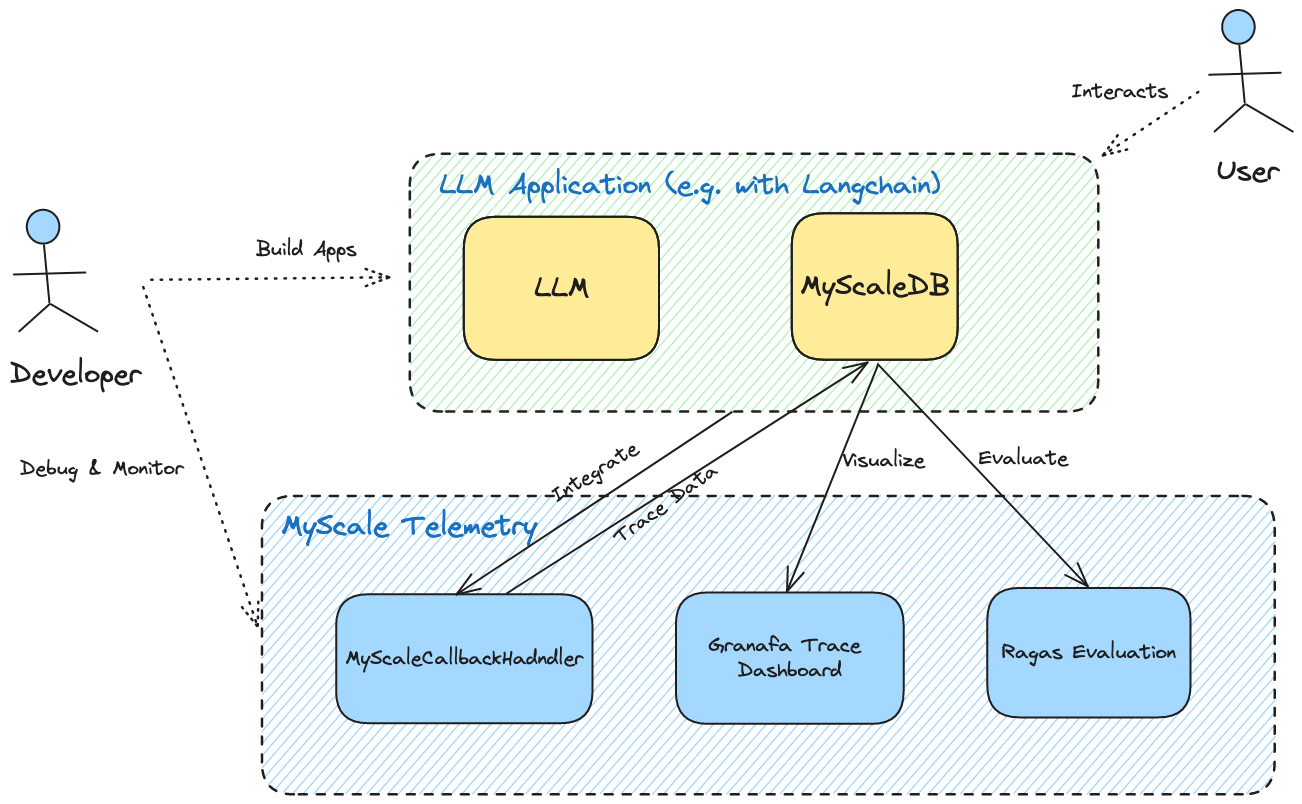
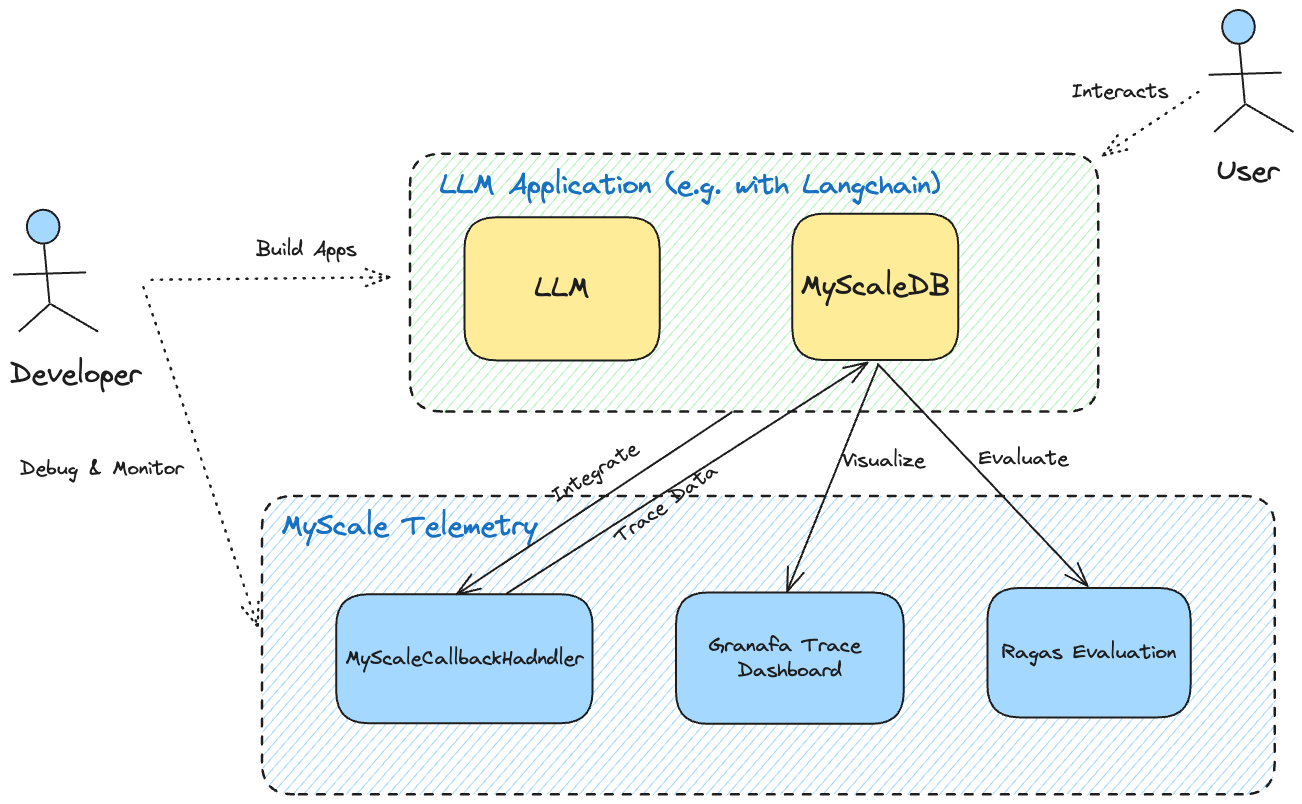
add workflow description

Changed region(s): [[0.1843, 0.5908, 0.9831, 0.995], [0.3072, 0.1866, 0.8602, 0.5286]]

diff --git a/myscale_telemetry/handler.py b/myscale_telemetry/handler.py
@@ -116,7 +116,7 @@ def _extract_span_attributes(data: Any, **kwargs: Any) -> Dict[str, str]:
     return span_attributes
 
 
-def num_tokens_from_string(string: str, encoding_name: str = "cl100k_base") -> int:
+def num_tokens_from_string(string: str, encoding_name: str) -> int:
     """Returns the number of tokens in a text string."""
     encoding = tiktoken.get_encoding(encoding_name)
     num_tokens = len(encoding.encode(string))
@@ -142,6 +142,8 @@ class MyScaleCallbackHandler(BaseCallbackHandler):
         force_count_tokens (bool): Forces the calculation of LLM token usage,
                                    useful when OpenAI LLM streaming is enabled
                                    and token usage is not returned.
+        encoding_name (str): The name of the encoding used by tiktoken.
+                             This is only relevant if `force_count_tokens` is set to True.
 
     This handler utilizes callback methods to extract various elements such as
     questions, retrieved documents, prompts, and messages from each callback
@@ -164,6 +166,7 @@ class MyScaleCallbackHandler(BaseCallbackHandler):
         table_name: str = "otel_traces",
         log_level: int = logging.INFO,
         force_count_tokens: bool = False,
+        encoding_name: str = "cl100k_base",
     ) -> None:
         """Set up the MyScale client and the TaskManager,
         which is responsible for uploading data to the MyScale vector database."""
@@ -189,6 +192,8 @@ class MyScaleCallbackHandler(BaseCallbackHandler):
         )
 
         self.force_count_tokens = force_count_tokens
+        self.encoding_name = encoding_name
+
         self._task_manager = TaskManager(
             client=self.myscale_client,
             threads=threads,
@@ -311,7 +316,7 @@ class MyScaleCallbackHandler(BaseCallbackHandler):
                 for i in range(len(prompts)):
                     content_key = "prompts." + str(i) + ".content"
                     if content_key in span_attributes:
-                        prompt_tokens += num_tokens_from_string(span_attributes[content_key])
+                        prompt_tokens += num_tokens_from_string(span_attributes[content_key], self.encoding_name)
 
                 span_attributes["prompt_tokens"] = str(prompt_tokens)
 
@@ -357,7 +362,7 @@ class MyScaleCallbackHandler(BaseCallbackHandler):
                 for i in range(len(response.generations)):
                     content_key = "completions." + str(i) + ".content"
                     if content_key in span_attributes:
-                        completion_tokens += num_tokens_from_string(span_attributes[content_key])
+                        completion_tokens += num_tokens_from_string(span_attributes[content_key], self.encoding_name)
 
                 span_attributes["completion_tokens"] = str(completion_tokens)
             else:
@@ -412,7 +417,7 @@ class MyScaleCallbackHandler(BaseCallbackHandler):
                 for i in range(len(messages[0])):
                     content_key = "prompts." + str(i) + ".content"
                     if content_key in span_attributes:
-                        prompt_tokens += num_tokens_from_string(span_attributes[content_key])
+                        prompt_tokens += num_tokens_from_string(span_attributes[content_key], self.encoding_name)
 
                 span_attributes["prompt_tokens"] = str(prompt_tokens)
 

diff --git a/README.md b/README.md
@@ -91,6 +91,15 @@ When invoking `MyScaleCallbackHandler()`, you can specify several parameters to 
 * `database_name`: Name of the trace database (default: "otel")
 * `table_name`: Name of the trace table (default: "otel_traces")
 * `force_count_tokens`: Forces the calculation of LLM token usage, useful when OpenAI LLM streaming is enabled and token usage is not returned (default: False)
+* `encoding_name`: Name of the encoding used by tiktoken. This is only relevant if `force_count_tokens` is set to True (default: cl100k_base)
+
+## Workflow Overview
+
+![workflow](https://github.com/myscale/myscale-telemetry/blob/main/assets/workflow.png?raw=True)
+MyScale Telemetry automatically records all trace data generated from user interactions with an LLM application into MyScale Cloud or MyScaleDB. Developers can then use the Grafana Dashboard to visualize this stored trace data, facilitating comprehensive debugging and analysis of the LLM application.
+Additionally, this trace data can be fed into evaluation framework like Ragas for further analysis, aiding in the optimization of the application.
+
+Therefore, MyScale Telemetry is invaluable for developers, offering a powerful tool for debugging and enhancing LLM applications with minimal performance impact. It provides comprehensive observability insights, allowing developers to deeply understand their applications' behavior and performance.
 
 ## Observability
 
